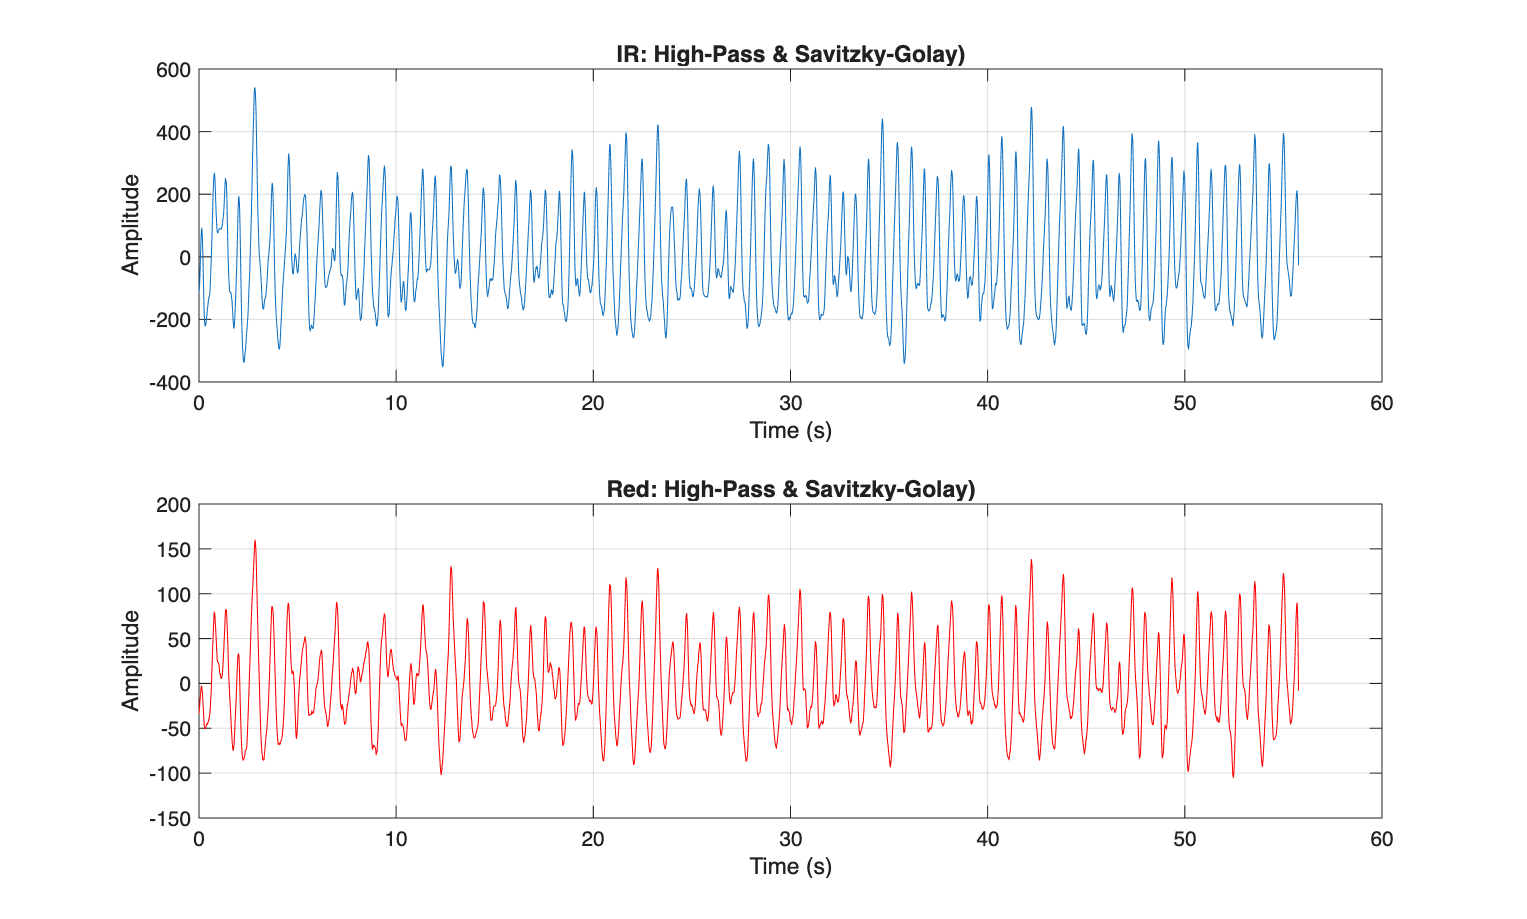
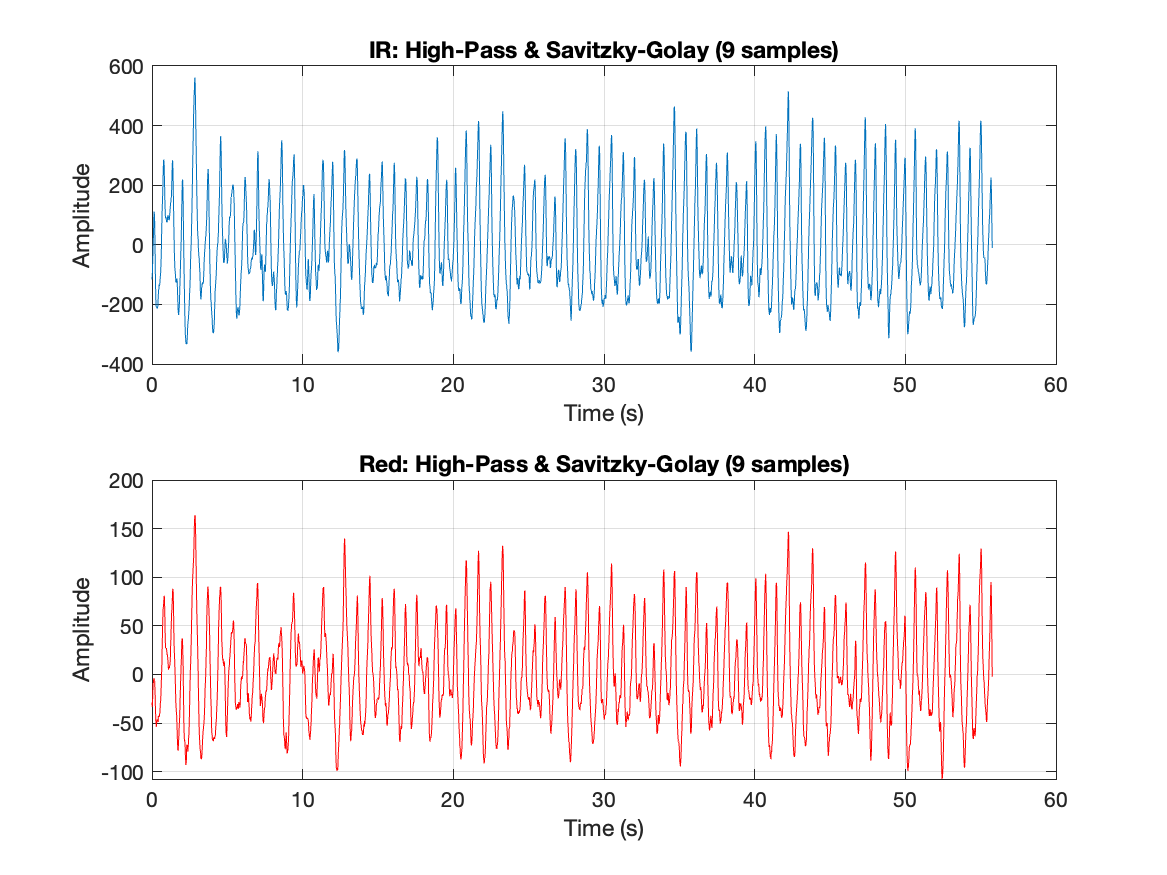
Add Analysis 5-6 (autocorrelation, cross-correlation), README with discussion and conclusion, save all figures

diff --git a/dataScript.m b/dataScript.m
@@ -36,7 +36,7 @@ amb = fillmissing(amb, 'linear');
 ir  = fillmissing(ir,  'linear');
 red = fillmissing(red, 'linear');
 
-% Subtract ambient light from instrucitons
+% Subtract ambient light from instructions
 realIR  = ir  - amb;
 realRed = red - amb;
 
@@ -51,7 +51,7 @@ subplot(2,1,2);
 plot(t, realRed, 'r');
 title('Red: Ambient Subtracted');
 xlabel('Time (s)'); ylabel('Amplitude'); grid on;
-%saveas(gcf, 'fig2_ambient_corrected.png');
+saveas(gcf, 'fig2_ambient_corrected.png');
 
 
 
@@ -68,13 +68,13 @@ xlabel('Time (s)'); ylabel('Amplitude'); grid on;
 
 subplot(2,1,2);
 plot(t, redHP, 'r');
-title(sprintf('Red: High-Pass Filtered (%.1f Hz cutu off)', fc));
+title(sprintf('Red: High-Pass Filtered (%.1f Hz cut off)', fc));
 xlabel('Time (s)'); ylabel('Amplitude'); grid on;
-%saveas(gcf, 'fig3_highpass.png');
+saveas(gcf, 'fig3_highpass.png');
 
 
 %% Step 4: Savitzky-Golay smoothing to remove high-frequency noise
-span = 9;   % window length in samples (odd number), 15 samples = about 0.23 s
+span = 9;   % window length in samples (odd number), 9 samples = about 0.14 s
 deg  = 3;    % polynomial order
 
 irClean  = sgolayfilt(irHP,  deg, span);
@@ -83,14 +83,14 @@ redClean = sgolayfilt(redHP, deg, span);
 figure;
 subplot(2,1,1);
 plot(t, irClean);
-title(sprintf('IR: High-Pass & Savitzky-Golay)', span));
+title(sprintf('IR: High-Pass & Savitzky-Golay (%d samples)', span));
 xlabel('Time (s)'); ylabel('Amplitude'); grid on;
 
 subplot(2,1,2);
 plot(t, redClean, 'r');
-title(sprintf('Red: High-Pass & Savitzky-Golay)', span));
+title(sprintf('Red: High-Pass & Savitzky-Golay (%d samples)', span));
 xlabel('Time (s)'); ylabel('Amplitude'); grid on;
-%saveas(gcf, 'fig4_cleaned.png');
+saveas(gcf, 'fig4_cleaned.png');
 
 %% Step 5: Plotting the Power Spectral Density (PSD) 
 N = length(irClean);
@@ -114,6 +114,7 @@ plot(f, pRed, 'r');
 title('Red: Power Spectrum');
 xlabel('Frequency (Hz)'); ylabel('Power');
 xlim([0 5]); grid on;
+saveas(gcf, 'fig5_psd.png');
 
 %% Step 6: Heartbeat from PSD
 
@@ -131,7 +132,7 @@ hr_ir = fband(max_in_ir) * 60;
 hr_red = fband(max_in_red) * 60;
 
 fprintf('Heart rate(IR): %.1f bpm\n',hr_ir);
-fprintf('Heart rate(IR): %.1f bpm\n',hr_red);
+fprintf('Heart rate(Red): %.1f bpm\n',hr_red);
 
 %% Step 7: Heart rate by counting peaks
 t1 = 10;  
@@ -157,10 +158,11 @@ plot(locsIR, pksIR,'.','MarkerSize',20);
 title('IR: Detected Peaks');
 xlabel('Time (s)'); ylabel('Amplitude'); grid on;
 subplot(2,1,2);
-plot(t_seg, red_seg); hold on;
+plot(t_seg, red_seg, 'r'); hold on;
 plot(locsRed, pksRed, '.','MarkerSize',20);
 title('Red: Detected Peaks');
 xlabel('Time (s)'); ylabel('Amplitude'); grid on;
+saveas(gcf, 'fig6_peaks.png');
 
 
 %% Step 8: Compare peak counting method vs PSD for heart rate
@@ -195,4 +197,50 @@ fprintf('\nHeart Rate Variability:\n');
 fprintf('IR: RMS peak time: %.3f s, SDNN: %.3f s\n', rmssd_ir, sdnn_ir);
 fprintf('Red: RMS peak time: %.3f s, SDNN: %.3f s\n',rmssd_red, sdnn_red);
 
+%% Step 10: Autocorrelation
+[acIR, lagsAC] = xcorr(irClean - mean(irClean), 'coeff');
+acRed = xcorr(redClean - mean(redClean), 'coeff');
+tau = lagsAC(:) / fs;                 % time offset in seconds
 
+% first peak after zero lag = heartbeat period
+win = tau > 0.4 & tau < 1.2;
+tauWin = tau(win);
+[acPk_ir, i_ir] = max(acIR(win));
+[acPk_red, i_red] = max(acRed(win));
+
+fprintf('\nAutocorrelation first peak:\n');
+fprintf('IR:  lag %.3f s, value %.2f, heart rate %.1f bpm\n', tauWin(i_ir), acPk_ir, 60/tauWin(i_ir));
+fprintf('Red: lag %.3f s, value %.2f, heart rate %.1f bpm\n', tauWin(i_red), acPk_red, 60/tauWin(i_red));
+
+figure;
+subplot(2,1,1);
+plot(tau, acIR); hold on;
+plot(tauWin(i_ir), acPk_ir, 'ko');
+title('IR: Autocorrelation');
+xlabel('Time offset (s)'); ylabel('Normalized autocorrelation'); xlim([-10 10]); grid on;
+subplot(2,1,2);
+plot(tau, acRed, 'r'); hold on;
+plot(tauWin(i_red), acPk_red, 'ko');
+title('Red: Autocorrelation');
+xlabel('Time offset (s)'); ylabel('Normalized autocorrelation'); xlim([-10 10]); grid on;
+saveas(gcf, 'fig7_autocorr.png');
+
+%% Step 11: Cross-correlation of the Red and IR channels
+[xc, lagsXC] = xcorr(irClean - mean(irClean), redClean - mean(redClean), 'coeff');
+[xcMax, iMax] = max(xc);
+
+fprintf('\nCross-correlation (IR vs Red):\n');
+fprintf('Maximum %.3f at lag %d samples = %.4f s\n', xcMax, lagsXC(iMax), lagsXC(iMax)/fs);
+fprintf('Values at lags -1, 0, +1 samples: %.3f %.3f %.3f\n', xc(lagsXC==-1), xc(lagsXC==0), xc(lagsXC==1));
+
+figure;
+subplot(2,1,1);
+plot(lagsXC/fs, xc); hold on;
+plot(lagsXC(iMax)/fs, xcMax, 'ko');
+title('Cross-correlation of IR and Red');
+xlabel('Time offset (s)'); ylabel('Normalized cross-correlation'); xlim([-10 10]); grid on;
+subplot(2,1,2);
+stem(lagsXC, xc, 'filled');
+title('Cross-correlation near zero lag');
+xlabel('Lag (samples)'); ylabel('Normalized cross-correlation'); xlim([-10 10]); grid on;
+saveas(gcf, 'fig8_xcorr.png');

diff --git a/README.md b/README.md
@@ -1,0 +1,65 @@
+# E51 Lab 3: PPG signals from the Muse 2 headband
+
+All of the code is in `dataScript.m`. It reads `ppg_lab3.csv` (3570 samples at 64 Hz, about 56 s; `PPG1` is ambient light, `PPG2` is infrared, `PPG3` is red) and saves `fig1` to `fig8`. Steps 1 to 9 are Analyses 1 to 4. This file explains Analyses 5 and 6 (Steps 10 and 11) and then gives the discussion and conclusion for the whole lab.
+
+## Command Window output of `dataScript.m`
+
+```
+192 dropped samples out of 3570
+Heart rate(IR): 85.0 bpm
+Heart rate(Red): 85.0 bpm
+
+       PeaksCount     PSD     Difference
+IR:       82.0      85.0     3.0 bpm
+Red:      82.0      85.0     3.0 bpm
+
+Heart Rate Variability:
+IR: RMS peak time: 0.060 s, SDNN: 0.072 s
+Red: RMS peak time: 0.058 s, SDNN: 0.070 s
+
+Autocorrelation first peak:
+IR:  lag 0.719 s, value 0.63, heart rate 83.5 bpm
+Red: lag 0.734 s, value 0.46, heart rate 81.7 bpm
+
+Cross-correlation (IR vs Red):
+Maximum 0.903 at lag 0 samples = 0.0000 s
+Values at lags -1, 0, +1 samples: 0.899 0.903 0.885
+```
+
+## Analysis 5
+
+*Autocorrelation (Step 10)*
+
+We took the mean out of each cleaned signal and ran `xcorr(x - mean(x), 'coeff')`, the same way as the zero-mean autocorrelation example from Class 06. We took the mean out first because a leftover offset would put a big triangle on top of the plot and bury the peaks. `'coeff'` scales the result so it equals 1 at zero lag, which lets us compare the two channels even though the IR pulse is about four times bigger than the red one.
+
+If a signal repeats, its autocorrelation has a peak every time the shift equals one period. So the first peak after zero lag is the time between heartbeats. We searched for it between 0.4 and 1.2 s, which covers 50 to 150 bpm.
+
+The first peak is at 0.719 s for IR (83.5 bpm) and 0.734 s for red (81.7 bpm). That is 46 and 47 samples, so the two channels are only one sample apart, and one sample at this lag is worth about 1.8 bpm. The peak is 0.63 high for IR and 0.46 for red, and after about 2 s the peaks are all under 0.2. If the heartbeat were perfectly regular the peaks would stay tall, so the quick drop tells us the time between beats was changing.
+
+![Autocorrelation](fig7_autocorr.png)
+
+## Analysis 6
+
+*Cross-correlation of the red and IR channels (Step 11)*
+
+Here we followed the MATLAB example the handout points to, "Align Signals Using Cross-Correlation": run `xcorr` on the two zero-mean signals, find the lag where it is largest, and divide that lag by the sample rate to get the time shift. We used `'coeff'` again so the peak reads as a correlation.
+
+The largest value is 0.903 and it is at lag 0. So the red and IR channels are lined up, with no time shift we can see at one sample (1/64 s = 15.6 ms), and we did not need to shift either one.
+
+One small thing: the values at lags -1, 0 and +1 are 0.899, 0.903 and 0.885, which is a little lopsided. That hints at a shift smaller than one sample, but at 64 Hz we cannot measure it.
+
+![Cross-correlation](fig8_xcorr.png)
+
+## Discussion
+
+The cleaning made the biggest difference. In the raw IR signal the pulse is well under 1% of the signal level and the baseline drifts by several times that, so we could not pick out any beats until after the 0.5 Hz high-pass filter. The 192 dropped samples come in short bursts of 6 samples, about 0.09 s, so filling them in with a straight line worked fine.
+
+The two channels tell the same story: 85.0 bpm from the power spectral density, 82.0 bpm from counting peaks, and a correlation of 0.903 between them. IR is the better channel, with a pulse about four times bigger and a taller autocorrelation peak (0.63 against 0.46).
+
+All of the heart rate estimates land between about 82 and 85 bpm. In `fig5_psd.png` the heartbeat is a cluster of lines from 1.2 to 1.5 Hz and not a single line, and 85.0 bpm is just the tallest one. Counting peaks gives an average, and dividing the count by the 30 s window can be off by as much as one beat (2 bpm), which explains part of the 3.0 bpm difference in Step 8. The autocorrelation results sit in between.
+
+The heart rate was not steady. The intervals have a standard deviation of about 0.07 s, the spectrum is spread out, and the autocorrelation dies off fast, which fits what we saw in class for a healthy heart rate. The variability numbers should be read with some care, though: we only know each peak time to the nearest sample (15.6 ms), and Step 9 only uses the beats between 10 and 40 s.
+
+## Conclusion
+
+From about 56 s of forehead PPG we measured a heart rate of roughly 83 bpm, with every method and both channels landing between 82 and 85 bpm. The time between beats varied, with a standard deviation of about 0.07 s. The red and IR channels are lined up to within one sample, with a correlation of 0.903, and the IR channel gave the cleaner signal.
